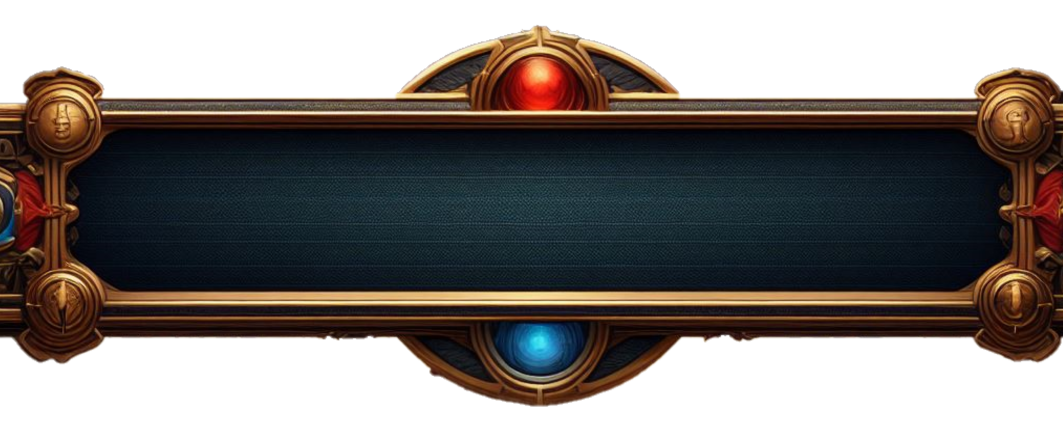
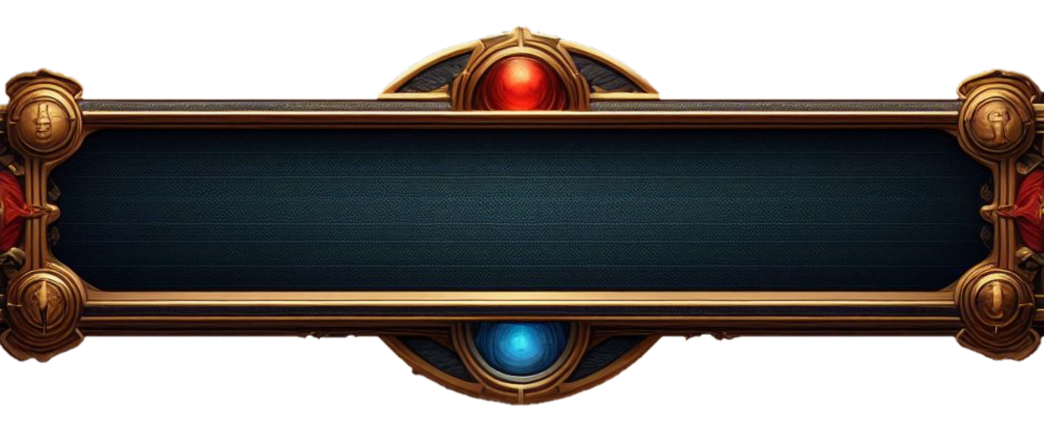
fixed all menus transitions fully functional just need to fill with content

diff --git a/game.py b/game.py
@@ -74,30 +74,30 @@ class Game:
         underline_opt.set_alpha(0)
         # Display text of main menu
         font = pygame.font.Font('freesansbold.ttf', 32)
-        text = font.render('Play', True, (60, 60, 60), None)
+        text = font.render('PLAY', True, (60, 60, 60), None)
         textRect = text.get_rect()
         textRect.center = (WIN_WIDTH // 2, WIN_HEIGHT // 2)
 
-        menu_opt = font.render('Settings', True, (60, 60, 60), None)
+        menu_opt = font.render('SETTINGS', True, (60, 60, 60), None)
         opt_rect = menu_opt.get_rect()
         opt_rect.center = (WIN_WIDTH // 2, WIN_HEIGHT // 2 + 50)
 
-        menu_help = font.render('How To Play', True, (60, 60, 60), None)
+        menu_help = font.render('TUTORIAL', True, (60, 60, 60), None)
         help_rect = menu_help.get_rect()
         help_rect.center = (WIN_WIDTH // 2, WIN_HEIGHT // 2 + 100)
 
-        menu_exit = font.render('Exit', True, (60, 60, 60), None)
+        menu_exit = font.render('EXIT', True, (60, 60, 60), None)
         exit_rect = menu_exit.get_rect()
         exit_rect.center = (WIN_WIDTH // 2, WIN_HEIGHT // 2 + 150)
 
         play_line = text.get_rect()
-        play_line.center = (WIN_WIDTH // 2 - 50, WIN_HEIGHT // 2 + 25)
+        play_line.center = (WIN_WIDTH // 2 - 44, WIN_HEIGHT // 2 + 25)
         opt_line = menu_opt.get_rect()
-        opt_line.center = (WIN_WIDTH // 2 - 15, WIN_HEIGHT // 2 + 75)
+        opt_line.center = (WIN_WIDTH // 2 - 2, WIN_HEIGHT // 2 + 75)
         help_line = menu_opt.get_rect()
-        help_line.center = (WIN_WIDTH // 2 - 15, WIN_HEIGHT // 2 + 125)
+        help_line.center = (WIN_WIDTH // 2 - 2, WIN_HEIGHT // 2 + 125)
         exit_line = menu_opt.get_rect()
-        exit_line.center = (WIN_WIDTH // 2 - 15, WIN_HEIGHT // 2 + 175)
+        exit_line.center = (WIN_WIDTH // 2 - 4, WIN_HEIGHT // 2 + 175)
 
         surface.blit(scaled_main_menu, (menu_x, menu_y))
         # Draw the text
@@ -172,28 +172,31 @@ class Game:
         scaled_bg = pygame.transform.scale(bg_img, (WIN_WIDTH, WIN_HEIGHT))
         surface.blit(scaled_bg, (0, 0))
 
-    def fade_out(self, surface):
+    def fade_out_fade_in(self, surface):
         """Fades out to black for smoother transitions"""
         color = (0, 0, 0) # Black
         visibility = 0 # Invisible
         while visibility <= 255:
             surface.fill(color, (visibility))
             visibility += 5 # Increase visibility till fully black
+        while visibility >= 0:
+            surface.fill(color, (visibility))
+            visibility -= 5 # Decrease the visibility till no black
 
     def show_settings(self, surface):
         """Displays the settings menu"""
         font = pygame.font.Font('freesansbold.ttf', 32)
         settings_display = pygame.image.load('assets/borders/timer_border_2.png')
-        scaled_setts = pygame.transform.scale(settings_display, (WIN_WIDTH // 1.2, WIN_HEIGHT / 1.2))
+        scaled_setts = pygame.transform.scale(settings_display, (WIN_WIDTH, WIN_HEIGHT - 70))
         underline_back = pygame.image.load('assets/menus/underline.png')
         underline_back.set_alpha(0)
-        menu_back = font.render('Return', True, (180, 180, 180), None)
+        menu_back = font.render('RETURN', True, (160, 160, 160), None)
         back_rect = menu_back.get_rect()
-        back_rect.center = (WIN_WIDTH // 2, WIN_HEIGHT // 2 + 150)
+        back_rect.center = (WIN_WIDTH // 2, WIN_HEIGHT // 2 + 210)
         back_line = menu_back.get_rect()
-        back_line.center = (WIN_WIDTH // 2, WIN_HEIGHT // 2 + 175)
+        back_line.center = (WIN_WIDTH // 2 - 19, WIN_HEIGHT // 2 + 235)
 
-        surface.blit(scaled_setts, (75, 50))
+        surface.blit(scaled_setts, (0, 50))
         surface.blit(menu_back, back_rect)
 
         for event in pygame.event.get():
@@ -213,16 +216,16 @@ class Game:
         """Display the how to play screen"""
         font = pygame.font.Font('freesansbold.ttf', 32)
         settings_display = pygame.image.load('assets/borders/timer_border_2.png')
-        scaled_setts = pygame.transform.scale(settings_display, (WIN_WIDTH // 1.2, WIN_HEIGHT / 1.2))
+        scaled_setts = pygame.transform.scale(settings_display, (WIN_WIDTH, WIN_HEIGHT - 70))
         underline_back = pygame.image.load('assets/menus/underline.png')
         underline_back.set_alpha(0)
-        menu_back = font.render("Return", True, (60, 60, 60), None)
+        menu_back = font.render("RETURN", True, (160, 160, 160), None)
         back_rect = menu_back.get_rect()
-        back_rect.center = (WIN_WIDTH // 2, WIN_HEIGHT // 2 + 150)
+        back_rect.center = (WIN_WIDTH // 2, WIN_HEIGHT // 2 + 210)
         back_line = menu_back.get_rect()
-        back_line.center = (WIN_WIDTH // 2, WIN_HEIGHT // 2 + 175)
+        back_line.center = (WIN_WIDTH // 2 - 19, WIN_HEIGHT // 2 + 235)
 
-        surface.blit(scaled_setts, (75, 50))
+        surface.blit(scaled_setts, (0, 50))
         surface.blit(menu_back, back_rect)
 
         for event in pygame.event.get():

diff --git a/Clash_Of_Conquerors.py b/Clash_Of_Conquerors.py
@@ -26,13 +26,13 @@ class Main(Game):
         while True:
             while self.game.opt == True: # Setting menu loop starts here
                 self.game.show_menu_bg(self.screen)
-                self.show_settings(self.screen)
+                self.game.show_settings(self.screen)
                 self.game.show_cursor(self.screen)
                 pygame.display.update()
 
-            while self.game.help == True:
+            while self.game.help == True: # Tutorial loop
                 self.game.show_menu_bg(self.screen)
-                self.show_tutorial(self.screen)
+                self.game.show_tutorial(self.screen)
                 self.game.show_cursor(self.screen)
                 pygame.display.update()
 
@@ -51,11 +51,11 @@ class Main(Game):
                     self.game.show_cursor(self.screen)
                     pygame.display.update()
 
-                    while self.game.opt == True: # This is in the menu loop of chess game loop
-                        self.game.show_menu_bg(self.screen)
-                        self.show_settings(self.screen)
-                        self.game.show_cursor(self.screen)
-                        pygame.display.update()
+                while self.game.opt == True: # This is in the menu loop of chess game loop
+                    self.game.show_menu_bg(self.screen)
+                    self.game.show_settings(self.screen)
+                    self.game.show_cursor(self.screen)
+                    pygame.display.update()
 
             # This is the main menu loop
             self.game.show_main_bg(self.screen)
